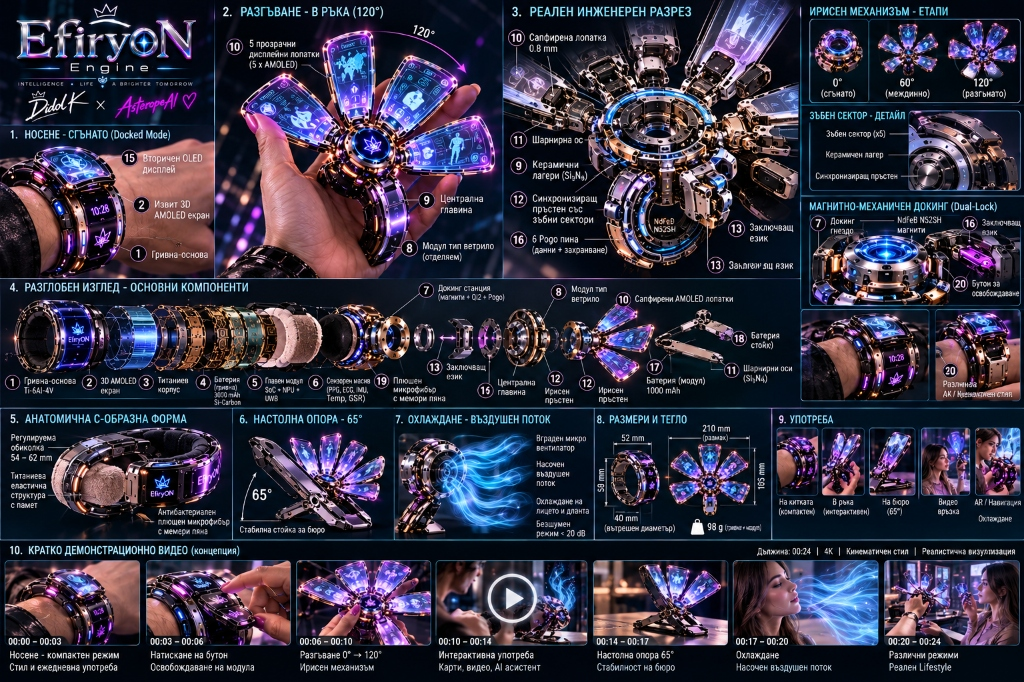
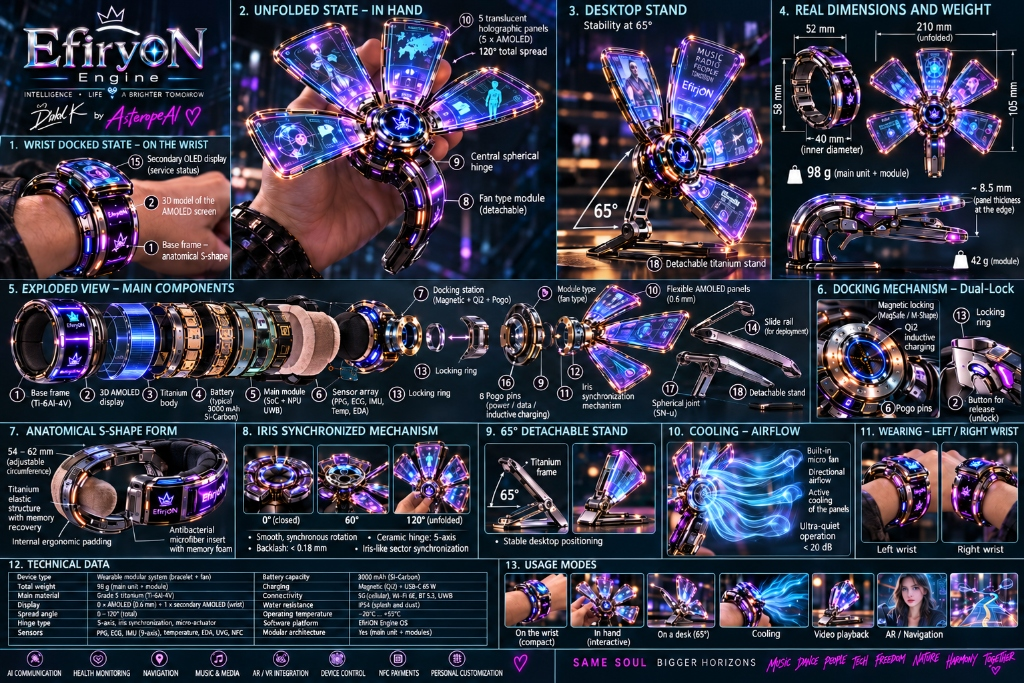
feat(spw): replace thumbnails with canonical English EfiryoN Engine schematic and SPW-6 CAD blueprint

diff --git a/index.html b/index.html
@@ -2506,13 +2506,13 @@
 
                 <!-- Допълващи технически чертежи -->
                 <div class="thumb-grid-2">
-                  <div class="thumb-item" onclick="openLightbox('assets/spwings_engineering_cutaway.jpg', 'SPWings Real Engineering Cutaway · Si3N4 Ceramic Bearings, 120° Iris Hinge &amp; Dual-Lock')">
-                    <img src="assets/spwings_engineering_cutaway.jpg" alt="SPWings Engineering Cutaway" loading="lazy">
-                    <div class="thumb-caption" id="thumb-cap-cutaway">Механичен разрез Si3N4</div>
+                  <div class="thumb-item" onclick="openLightbox('assets/spw_efiryon_engine_master_schematic.jpg', 'EfiryoN Engine™ · SPW Full Engineering Schematic (Exploded View, Iris Sync Hinge, Qi2 Dual-Lock, Airflow Cooling, Didol K by Asterope AI)')">
+                    <img src="assets/spw_efiryon_engine_master_schematic.jpg" alt="EfiryoN Engine SPW Master Engineering Schematic" loading="lazy">
+                    <div class="thumb-caption" id="thumb-cap-cutaway">EfiryoN Инженерен Разрез</div>
                   </div>
-                  <div class="thumb-item" onclick="openLightbox('assets/spw5_spw3_dual_model_comparison.jpg', 'SPW-5 (210mm, 98g) vs SPW-3 (160mm, 76g) · Kinematics (0° ➔ 60° ➔ 120°), Exploded View &amp; Ceramic Si3N4 Central Hub')">
-                    <img src="assets/spw5_spw3_dual_model_comparison.jpg" alt="SPW-5 vs SPW-3 Dual Model Comparison" loading="lazy">
-                    <div class="thumb-caption" id="thumb-cap-blueprint">SPW-5 vs SPW-3 Сравнение</div>
+                  <div class="thumb-item" onclick="openLightbox('assets/spw6_production_cad_blueprint.jpg', 'SPW-6 Smart Papilio Wing · Production-Ready 3D CAD Topology &amp; Modular Ecosystem (Orthographic Views, TRL 5-6, DYNKV Studio)')">
+                    <img src="assets/spw6_production_cad_blueprint.jpg" alt="SPW-6 Production 3D CAD Topology Blueprint" loading="lazy">
+                    <div class="thumb-caption" id="thumb-cap-blueprint">SPW-6 CAD Топология &amp; Чертеж</div>
                   </div>
                 </div>
 
@@ -3149,8 +3149,8 @@
 
         titleSpw: "🪭 Smart Papilio Wing (SPW™)",
         capSpwMaster: "✦ SPW™ Smart Papilio Wing · Главен DFM Модел (120° размах, 98g, 3-в-1 докинг, Qi2) ✦",
-        thumbCapCutaway: "Механичен разрез Si3N4",
-        thumbCapBlueprint: "SPW-5 vs SPW-3 Сравнение",
+        thumbCapCutaway: "EfiryoN Инженерен Разрез",
+        thumbCapBlueprint: "SPW-6 CAD Топология & Чертеж",
         listSpw: `<li><strong>3 режима на трансформация:</strong> 01 Накитник (Docked Mode, 52g), 02 Ръчен ветрилен пулт (Handheld Mode, 46g, 120° размах), 03 Настолен смарт стенд под 65° (Desktop Mode).</li>
 <li><strong>5 ултра-тънки сапфирени пера (0.8 mm):</strong> Биомиметична шарка по Papilio Machaon, Micro-LED подсветка, холографски визуален слой и аеродинамична форма за активно охлаждане.</li>
 <li><strong>Керамична прецизна механика & Si3N4:</strong> Лагери от силициев нитрид (Si3N4), ирисен механизъм на разгъване, магнити NdFeB N52SH, 6 позлатени Pogo пина и безжично зареждане (Qi2).</li>
@@ -3387,8 +3387,8 @@
 
         titleSpw: "🪭 Smart Papilio Wing (SPW™)",
         capSpwMaster: "✦ SPW™ Smart Papilio Wing · Master DFM Blueprint & Technical Specifications (98g, 5 Blades 0.8mm, Qi2) ✦",
-        thumbCapCutaway: "Si3N4 Mechanical Cutaway",
-        thumbCapBlueprint: "SPW-5 vs SPW-3 Comparison",
+        thumbCapCutaway: "EfiryoN Engine Schematic",
+        thumbCapBlueprint: "SPW-6 CAD Topology & Specs",
         listSpw: `<li><strong>3 Transformation Modes:</strong> 01 Wrist Cuff (Docked Mode, 52g), 02 Handheld Fan Display (Handheld Mode, 46g, 120° wingspan), 03 Desktop Smart Stand at 65° (Desktop Mode).</li>
 <li><strong>5 Ultra-Thin Sapphire Glass Blades (0.8mm):</strong> Biomimetic venation inspired by Papilio Machaon, Micro-LED illumination, holographic layer, and aerodynamic cooling curvature.</li>
 <li><strong>Ceramic Precision Mechanics & Si3N4:</strong> Silicon nitride (Si3N4) bearings, iris folding mechanism, NdFeB N52SH magnets, 6 gold-plated Pogo pins, and Qi2 inductive wireless charging.</li>
